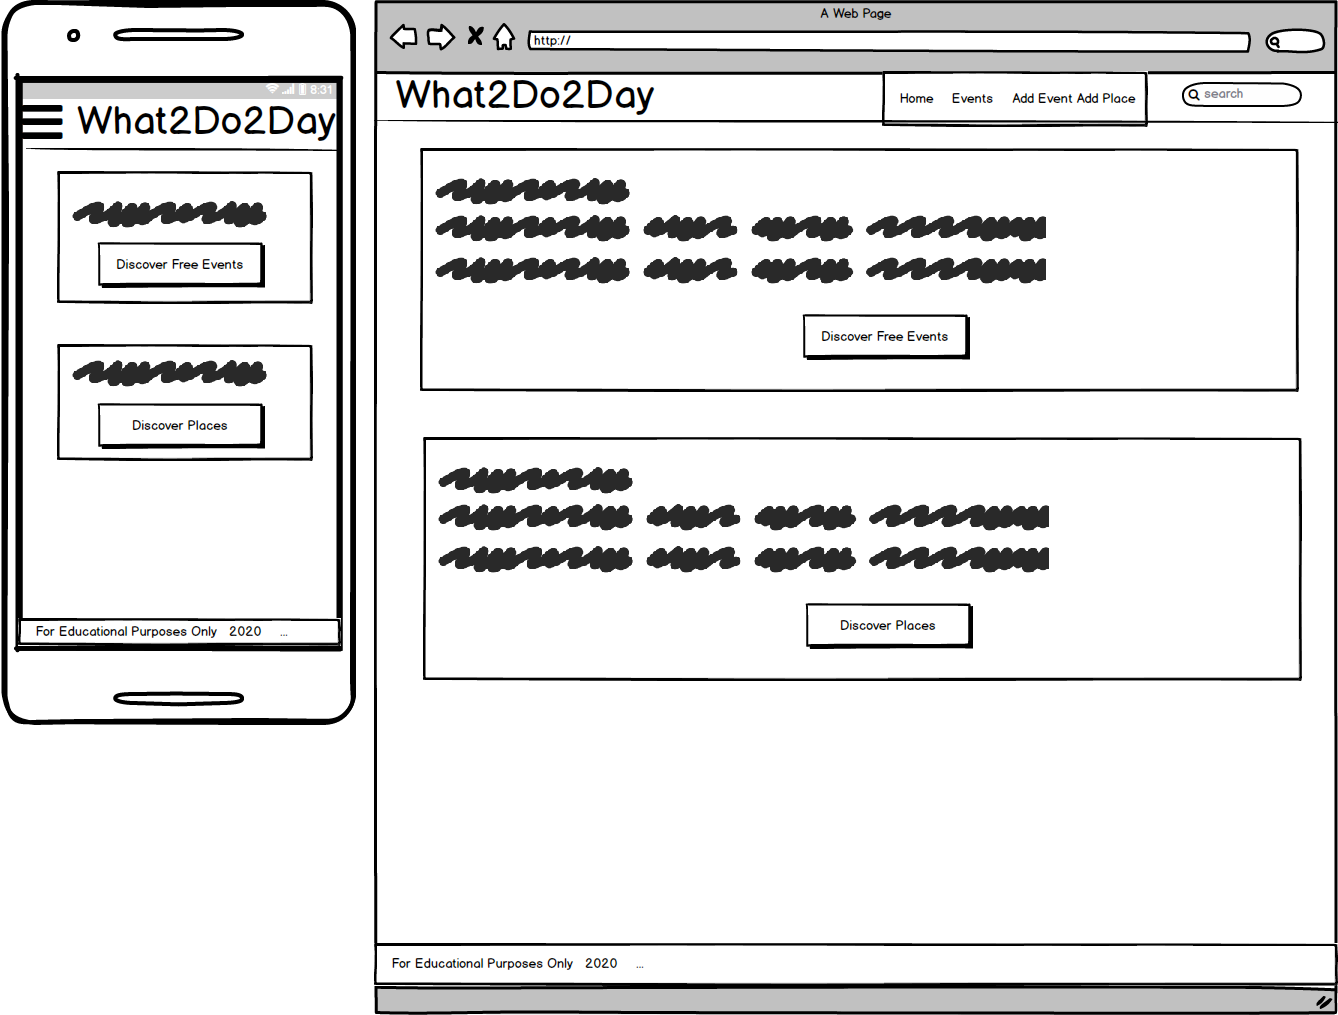
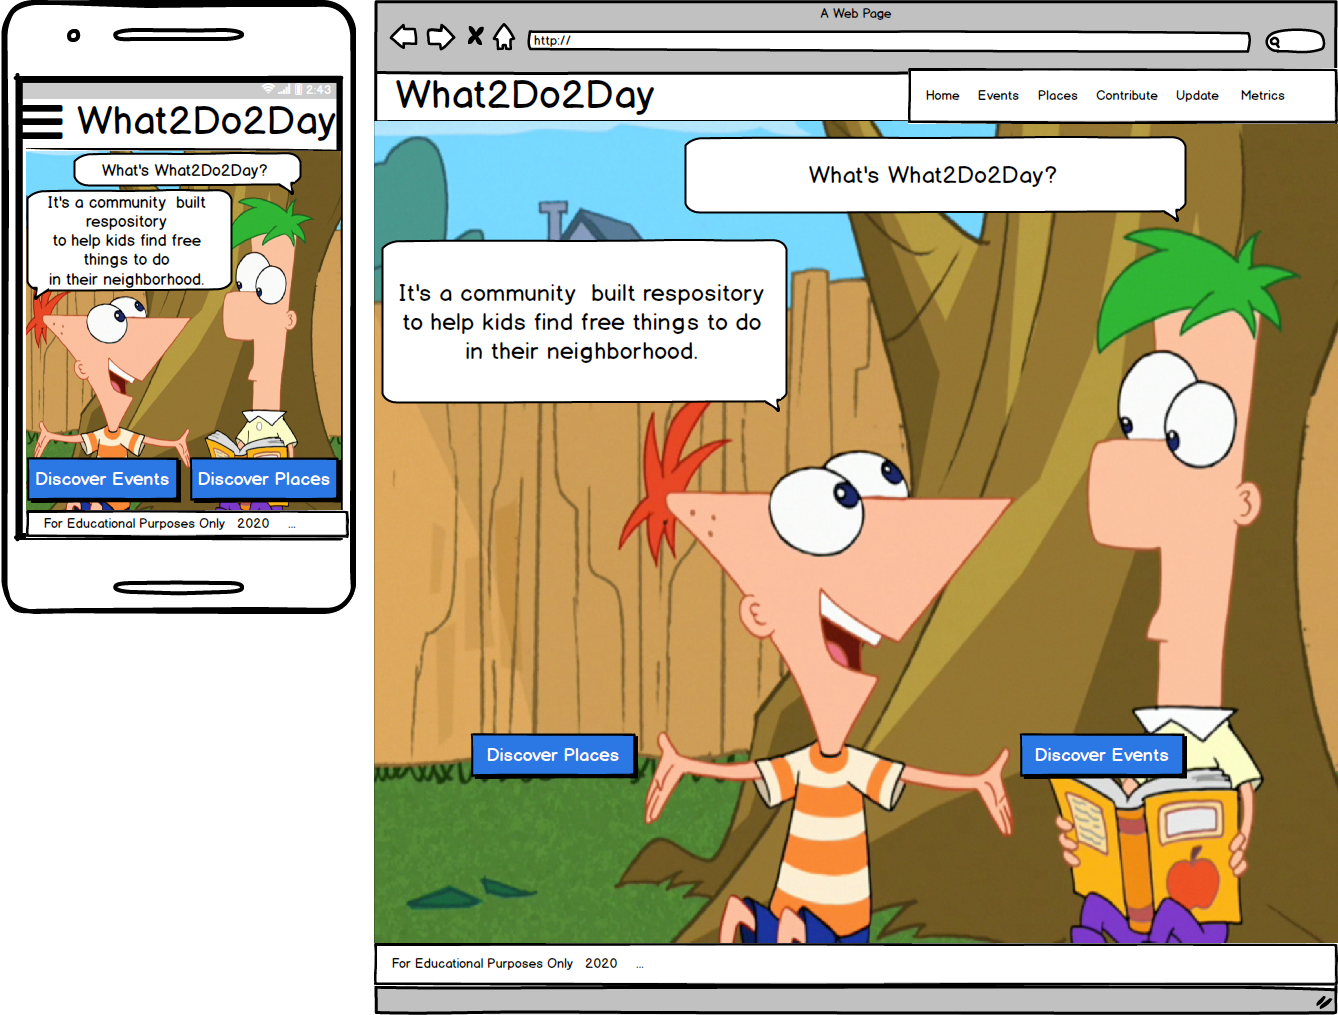
adding balsamiq mockups, breaking out readme into smaller components

diff --git a/readme.md b/readme.md
@@ -1,13 +1,13 @@
 # What2Do2Day
 This website provides people a way to find free events in their community as a means to solve the question of "What are we gonna do today?" without breaking the bank or needing to travel far from home.
 
-Along with finding inexpensive options of what to do today, the site allows users to flag that they are planning on attending an event so other members in the community know they will not be the only one going to a function.
+Along with finding inexpensive options of what to do today, the site allows users to flag that they are planning on attending an event so other members know they will not be the only one going to a function.
  
-Users can also see a list of all the places in the community that have ever hosted an event. Users can add reviews to places to better share their experiences with the community. Places, Events, and Reviews can be added, deleted and updated. If an activity doesn't match quite right, users can add a new activity when creating an event or place.
+Users can also see a list of all the places in the community that have ever hosted an event and read reviews about them. Users can add reviews about places to share their experiences. Places, Events, and Reviews can be added, deleted and updated from the site. If an activity doesn't quite fit into the list provided, users can add a new activity when creating an event or place.
 
 Small businesses, social groups, and communities would ideally be in charge of their organizations's data and events but in this beta phase, user authentication, roles and permissions are not implemented.
 
-Site owners could enable affiliate linking associated with promos from any organization associated with the site that results in a booking for paid events. Site admins could also gather data based on searches and sell ads on their site to help earn money.
+Site owners could enable affiliate linking associated with promos from any organization associated with the site that results in a booking for paid events. Site admins could also gather data based on search activity as well as Places and Events with heavy interaction and sell ads on their site to help earn money.
 
 The name and concept of this site is loosely based on the key phrase, "I know what we're gonna do today!" from the cartoon series Phineas and Ferb.
 
@@ -18,24 +18,52 @@ Malia Havlicek
 
 ## UX
 ### Strategy:
-The first step of any UX Project is Strategy where the business goals of a project are defined.
+The first step of any UX Project is defining business goals of a project.
 
 Upon reading the suggested projects for the Data Centric Milestone Project, I came up with 2 ideas:
-1. Texting Translator:
 
- ![Texting Translator](static/images/readme/Idea1.png)
-2. What2Do2Day:
+1.Texting Translator:
+> External Goals
+>  -  Lookup definitions so you know what LOL and MILF means before determining if you need to have  serious talk with your children
+>
+> Site Owner's Goals
+>  - Publish T-shirts, & stickers mugs for benign but up to date trends
+>
+> Features
+>   - Forms that allows users to Add , Edit , Delete Search Texting Terms   
+>   - Up and Down voting if Definition is Good, BAD, AWFUL
+>   - SATs about what words were search for the most so owner can Stock Online store accordingly
 
-![What2Do2Day](static/images/readme/Idea2.png)
- 
-Out of these two concepts,  What2Do2Day has the ability to reach a broader scope of users and could potentially take off like the nextdoor app.  What2Do2Day is more intriguing and likely to keep me vested as a user and as a developer will provide greater value in the long term towards my coding skills due to it's complexity.
+2.What2Do2Day:
+> External Goals
+>  - Find something safe for your kids to do near home
+>  - Find something that's interesting to me with others I know when mom and dad take away my electronics
+>  - Bring Attention to business or organization by being involved in teh community
+> Site Owner's Goal
+>  - Earn $ from affiliate links to businesses that post their places on site when links lead to online sales
+>  - Track most popular activities on site to score some $ from ads
+> Features
+>  - Create an app that allows users to upload details about places to do things with kids. Main objects are Places and Events tied to them
+>  - Allow users to write reviews about places and rate them
+>  - Allow users to follow a place so they know new events posted by that business
+>  - Allow users to join an event so other members know how many people might show up
+>  - Create back end code to manage:
+>    - reviews
+>    - Places
+>    - Events
+>  - Search, allow searching by activity as means to filter results
+>  - Metrics - track follows to business and joins to business as well as visitors to site.
+
+Out of these two concepts,  What2Do2Day has the ability to reach a broader scope of users and could potentially take off like the Nextdoor app.  What2Do2Day is more intriguing and likely to keep me coming back to the site as a user. As a developer, the What2Do2Day app will provide greater value in the long term towards my coding skills due to it's complexity.
 
 ### Scope & Strategy:
-The concept of What2Do2Day can get extremely intertwined when looking at permissions and roles. I decided that a beta version that skips over those can still provide a clean efficient minimal viable product (MVP).  Thus user profiles and management of users will not be included initially. 
+The concept of What2Do2Day can get extremely intertwined when looking at permissions and roles. I decided that a beta version that skips over authentication, permissions and roles can still provide a clean and efficient minimal viable product (MVP).  Thus user profiles and management of users will not be included initially. 
 
-Restricting results based on user's location would be ideal for a long term solution but it is not necessary for the MVP. Since I do not have experience with Google Maps's Nearby API, this bit of scope will be deferred until a polished core product is developed.
+Restricting results based on user's location would be ideal for a long term solution but it is not necessary for the MVP. Since I do not have experience with Google Maps's Nearby API, this bit of scope will be deferred until a polished core product is developed. Also not enough data will be loaded to make searching and geolocation viable initially.
 
-Creating, adding and updating functionality will only be accessible from menu options. This will allow the MVP to be built to server the majority of long term users and keep the UX cleaner without an overwhelming amount of buttons. Admin proximity/ease of use functionality can be added later. 
+Creating, adding and updating functionality will only be accessible from menu options. This will allow the MVP to be built to serve the majority of long term users and keep the UX cleaner without an overwhelming amount of buttons. Admin proximity/ease of use functionality can be added later. 
+
+Consolidating Delete functionality into an enable/disable property reduces pages to develop. It also reduces the number of items in the menus and makes overall navigation easier.
 
 Business logic to track search requests, and the events and places that users interact with will be collected.  This will aide in negotiating affiliate link deals and ads will be included but graphical visualization will not be included in the MVP, only a list of the data collected. Likewise we need to know how many users are coming to the site and what percentage of them interact or do not interact with out buttons so we will attempt to track unique visits to our site.
 
@@ -45,22 +73,58 @@ In order to have a better idea of the tables and the relationships between them:
 I looked at google Maps' Places API to help determine what fields my place object should have. Knowing the date and the relationship helped me refine the data and take it down to its MVP form.
 
 ### Skeleton:
-Having the data structure in hand, I know what I need to present users managing the PLACES, EVENTS and REVIEW objects. I'm not a great artist but I find it easier start hand drawn markups as my proficiency with UX tools is lacking and I'm very reluctant to pony up money for a license. An added feature to hand drawing is sometimes a concept you want isn't available in  the UX tools such as background images covered with a semi transparent layer housing buttons.
-- ![home page](static/images/readme/homepage.png)
-- ![add_place](static/images/readme/add_place.png)
-- ![edit place](static/images/readme/edit_place.png)
-- ![edit_review](static/images/readme/edit_review.png)
+Having the data structure in hand, I know what I need to present users managing the PLACES, EVENTS and REVIEW objects. I'm not a great artist but I find it easier start hand drawn markups as my proficiency with UX tools is lacking and I'm very reluctant to pony up money for a license.
+[view hand drawn mockups](handdrawn.md)
 
-After making the drawings above, I switched over to balsamiq and created more formal mockups for the pages:
+After noticing Code Institute partnered with Balsamiq, I invested several hours to mockup and fine tune the user experience:
+[view balsamiq deck](balsamiq.md)
+
+Taking the time to do more formal mockups exposed an issue with the crowding of edit buttons and delete buttons. I decided that delete is really an update function since I'm using the enabled attribute to hide or show items on the Places and Events pages.  The more formal  mockups also allowed me to try several different fits and layouts of the data for the main list pages. So while not proficient, I am learning the importance as it draws out a more definitive user experience.  I added layers for filtering and in site adding of reviews. 
 
 
-Taking the time to do mockups exposed an issue with the crowding of edit buttons and delete buttons.
+#### user stories
+1. Home
+1. Navigation
+1. Events List
+> As a kid bored out of my mind, I want to find something cheap to do that is nearby so I can be around others doing something other than online gaming without bugging my parents who are busy working.
+1. Places
+1. Edit Places
+1. Edit Events
+1. Edit Review - take user to Edit Places Page
+1. Add Place
+1. Add Event - take user to Edit Places Page
+1. Add Review - take user to Edit Places Page
+1. Delete Place - take user ot Edit Places Page
+1. Delete Event - take user to Edit Places Page
+1. Delete Review - take user to Edit Places Page
+- Pagination of results, only show a max of 10 results per page.
+- 
+- Filter Places by activity and age.
+
+
+
+
 
 ### Surface:
 
-####Color & font Choice, material vs bootstrap, user interaction/animation
+####Color Choice
+https://www.sherwin-williams.com/homeowners/color/find-and-explore-colors/paint-colors-by-family/SW6790-adriatic-sea#/6790/?s=coordinatingColors&p=PS0
+
+#### Typography
+ https://uxplanet.org/10-tips-on-typography-in-web-design-13a378f4aa0d
+
+#### Image Choice
+https://www.flaticon.com/packs/outdoor-activities-32
+
+#### Design Elements
+
+#### animations/Transitions
+materialize or bootstraps
+
+####
 
 #### User Stories:
+
 Use this section to provide insight into your UX process, focusing on who this website is for, what it is that they want to achieve and how your project is the best way to help them achieve these things.
 
 In particular, as part of this section we recommend that you provide a list of User Stories, with the following general structure:

diff --git a/balsamiq.md b/balsamiq.md
@@ -1,0 +1,118 @@
+Home Page
+
+![home page mockup](static/images/readme/Home.png)
+
+- Have cartoons present the about me information.
+- Present two call to action buttions: List of Places & List of Events
+
+Events Page 
+
+![events page mockup](static/images/readme/Events.png)
+
+- List out enabled events that are in the future and enabled, sorted by Date, ascending.
+- Paginate results so only 10 show per page on desktop. 
+- Allow Filtering of Events by activity, date range, and age range.
+- Present google map of each location. 
+- Track number of people planning on attending
+- Allow users to join an event
+
+Places Page
+
+![places page mockup](static/images/readme/Places.png)
+
+- List out enabled places alphabetically.
+- Allow filtering/sorting by name, activity and rating. 
+- Have reviews collapsed, but expandable.
+- Have events collapsed, but expandable.
+- Show aggregated rating.
+- Allow user to add a review.
+
+Review Add Page
+
+![add review page mockup](static/images/readme/Add Review.png)
+
+- accessible from button on Places Page and Navigation
+- if accessed from Navigation, user must search for Place to associate review with
+
+Event Add Page
+
+![add event page mockup](static/images/readme/Add Event.png)
+
+ - accessible only from button on Places Edit page and navigation
+ - presents user with form including the name of the place the event is being added to. 
+ - on submit, check that event with same date and place does not already exist. If successful, go back to Events page.
+ 
+Events Edit Page 
+
+![edit event page mockup](static/images/readme/Edit Event.png)
+
+- accessed from navigation
+- find associated Place first, then list events associated to place with edit buttons (enabled and enabled, but only those in future)
+- Once edit is selected, switch to Event Update page. 
+
+Events Update Page 
+
+![update event page mockup](static/images/readme/Update Event.png)
+
+- display events form field with values prepopulated
+- allow user to change values
+- on save, check that name and date are unique to associated place.
+- when save is successful take user to Events Page
+
+Places Add Page 
+
+![add place page mockup](static/images/readme/Add Place.png)
+- capture user email (newsletters, groupon deals?)
+- present form to fill out to make a place
+- on submit add warning if Name already exists. 
+- If successful, go back to Places Page.
+
+Places Edit Page 
+
+![edit place page mockup](static/images/readme/Edit Place.png)
+
+- List out enabled places, sorted by Name, ascending.
+- Paginate results so only 10 show per page on desktop. 
+- allow filtering/sorting by enabled/disabled and name
+- once edit is selected, switch to Places Update Page 
+
+Places Update Page 
+
+![update place page mockup](static/images/readme/Edit Place.png)
+
+- present form prepopulated with inputs to user to update.
+- on submit, make sure Name check is performed
+- If successful, go back to Places Page.
+
+Review Edit Page 
+
+![edit review page mockup](static/images/readme/Edit Review.png)
+
+- Have user find place Review is associated with
+- on successful match, list out reviews descending by date with edit buttons
+- if no reviews provide add Review button
+
+Review Update Page 
+
+![update review page mockup](static/images/readme/Update Review.png)
+
+- present form prepopulated with inputs to user to update.
+- once changes are saved, return to Places Page
+
+Navigation
+
+![update review page mockup](static/images/readme/Navigation.png)
+
+- desktop: drop down menu for Contribute and Update menus
+- small devices: side bar menu with icons
+
+Site Activity
+
+![update review page mockup](static/images/readme/Navigation.png)
+
+- flat file of metrics tracking
+   - Action: [follow, create, update, attend, Search]
+   - Object: [Place, Event, Review]
+   - Activity: [slugified value from list]
+   - Name: [slugified name daisy chained if event]
+- if time, maybe have totals for each unique row without DateTime

diff --git a/handdrawn.md b/handdrawn.md
@@ -1,0 +1,18 @@
+Home Page
+
+![home page](static/images/readme/homepage.png)
+
+
+Add Place
+
+![add_place](static/images/readme/add_place.png)
+
+
+Edit Place
+
+![edit place](static/images/readme/edit_place.png)
+
+
+Edit Review
+
+![edit_review](static/images/readme/edit_review.png)
